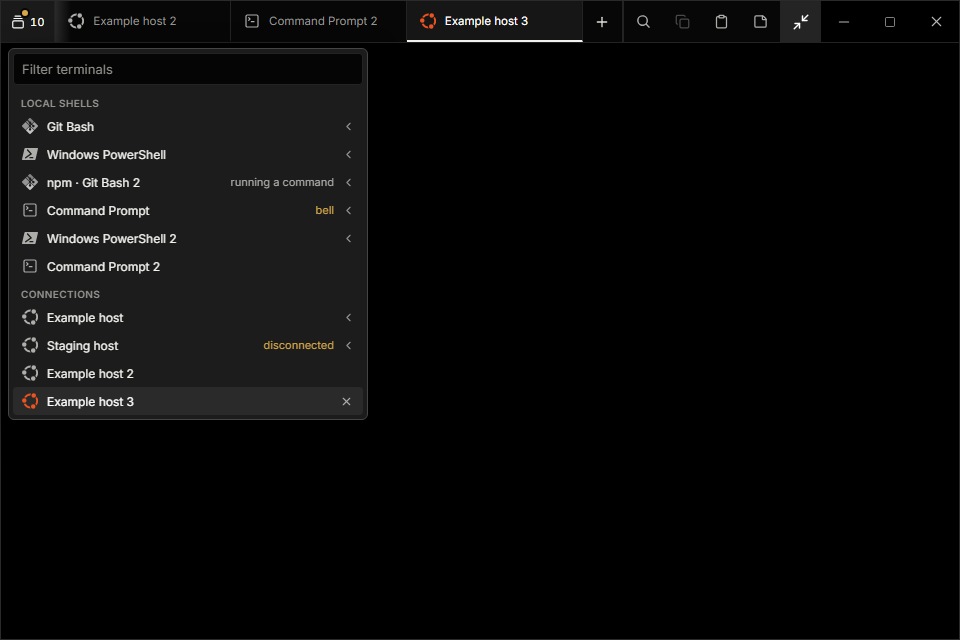
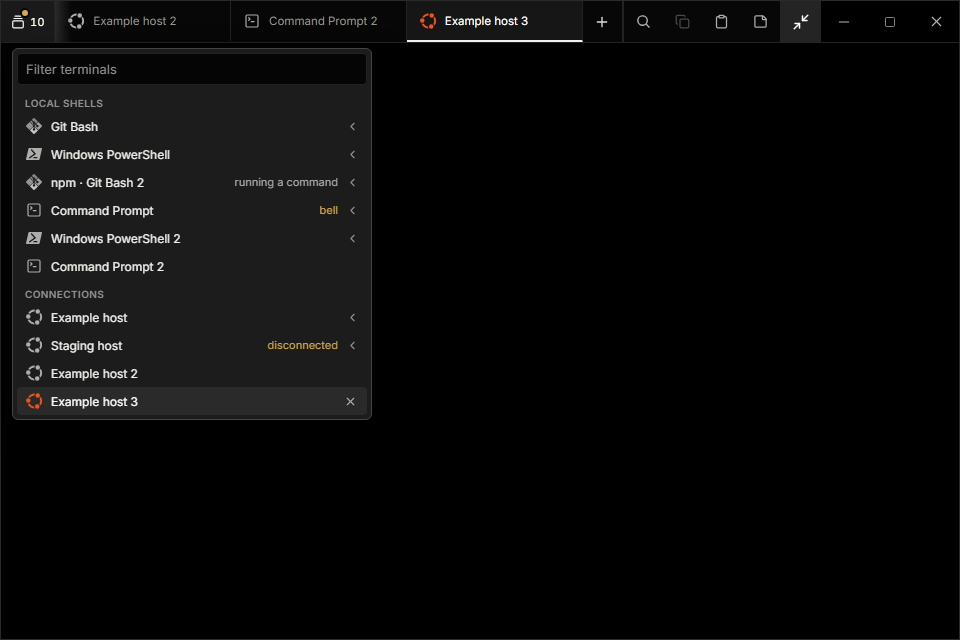
Keep the All terminals menu clear of the sidebar and window edges

Changed region(s): [[0.0, 0.0938, 0.1875, 0.6562], [0.25, 0.0938, 0.4062, 0.6562]]

diff --git a/src/components/WorkspaceTabScroller.tsx b/src/components/WorkspaceTabScroller.tsx
@@ -91,6 +91,8 @@ export interface TabDragOut {
 const MIN_TAB_WIDTH = 136;
 const MAX_TAB_WIDTH = 196;
 const MEASURE_TOLERANCE_PX = 0.5;
+const MENU_WINDOW_GUTTER_PX = 12;
+const MENU_ANCHOR_INSET_PX = 8;
 const DRAG_START_PX = 4;
 const DRAG_EDGE_PX = 28;
 const DRAG_STEP_MS = 350;
@@ -294,7 +296,7 @@ export function WorkspaceTabScroller({
   useLayoutEffect(() => {
     if (!menuOpen || !pickerRef.current || !menuRef.current) return;
     const anchor = pickerRef.current.getBoundingClientRect();
-    const menuWidth = Math.min(360, window.innerWidth - 16);
+    const menuWidth = Math.min(360, window.innerWidth - MENU_WINDOW_GUTTER_PX * 2);
     const gap = 6;
     const below = window.innerHeight - anchor.bottom - gap - 8;
     const above = anchor.top - gap - 8;
@@ -302,7 +304,13 @@ export function WorkspaceTabScroller({
     const maxHeight = Math.min(480, Math.max(0, useAbove ? above : below));
     const height = Math.min(menuRef.current.scrollHeight, maxHeight);
     setMenuPosition({
-      left: Math.max(8, Math.min(anchor.left, window.innerWidth - menuWidth - 8)),
+      left: Math.max(
+        MENU_WINDOW_GUTTER_PX,
+        Math.min(
+          anchor.left + MENU_ANCHOR_INSET_PX,
+          window.innerWidth - menuWidth - MENU_WINDOW_GUTTER_PX,
+        ),
+      ),
       top: useAbove ? Math.max(8, anchor.top - height - gap) : anchor.bottom + gap,
       maxHeight,
     });

diff --git a/src/styles/features/terminal.css b/src/styles/features/terminal.css
@@ -183,7 +183,7 @@
 .session-tab-overflow-menu {
   position: fixed;
   z-index: 1200;
-  width: min(360px, calc(100vw - 16px));
+  width: min(360px, calc(100vw - 24px));
   overflow-y: auto;
   overscroll-behavior: contain;
   padding: 4px;
